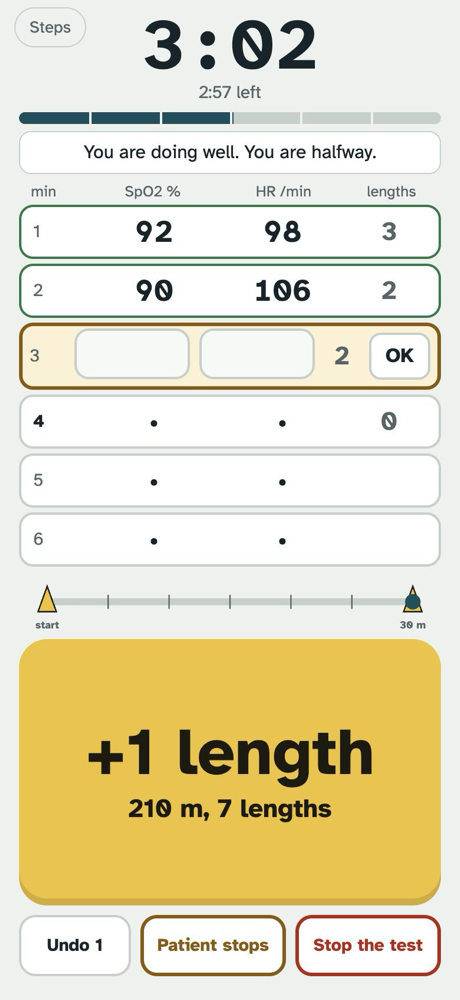
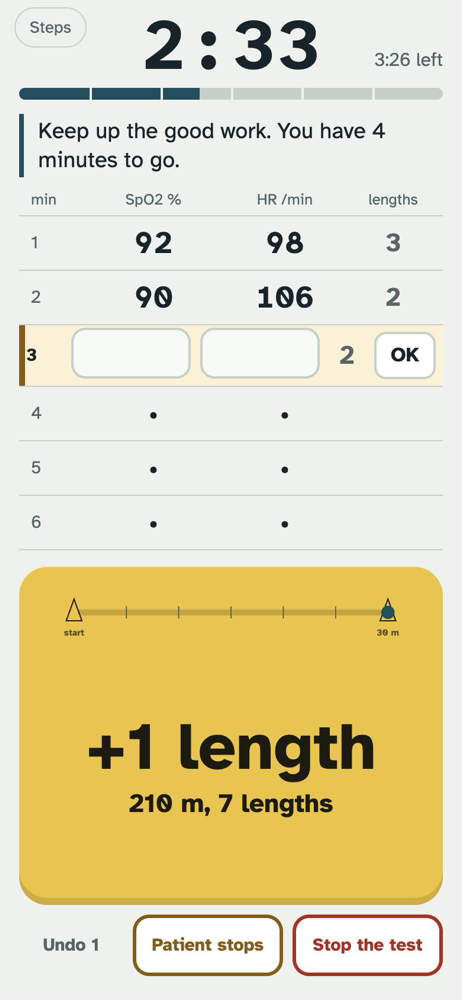
Écran du test redessiné sur iPhone, minuteur de récupération plafonné à 3 min, captures refaites

diff --git a/index.html b/index.html
@@ -690,8 +690,24 @@ h1{font-size:28px;line-height:1.15;margin:20px 0 4px;text-wrap:balance}
   .mrow.on .f .box{padding:0 8px}
   .mrow.on .f input{font-size:30px;padding:3px 0;text-align:center}
   .mok{min-height:40px;border-radius:10px;border:2px solid var(--line);background:var(--surface);font-weight:700}
-  .cols.test:has(.o2run) .mrow{min-height:40px} /* titration : place pour la rangée Oxygène */
   .cols.test .lap{min-height:100px} /* 130 : en titration, la rangée Oxygène poussait les boutons sous la barre d’accueil (iPhone 17 Pro) */
+  /* Refonte du 24 novembre 2026 (go d'Allan) : moins de cadres, un seul signe d'état par minute, couloir dans le bouton d'aller. */
+  .clock{position:relative;display:-webkit-flex;display:flex;-webkit-justify-content:center;justify-content:center;-webkit-align-items:flex-end;align-items:flex-end}
+  .clock .r{position:absolute;right:0;bottom:6px;font-size:16px;margin:0}
+  .cols.test .bar{margin-top:6px}
+  .phrase{background:none;border:0;border-left:4px solid var(--accent);border-radius:0;text-align:left;font-size:19px;line-height:1.3;padding:2px 0 2px 12px;margin:12px 0 10px}
+  .mtab{margin:0 0 10px}
+  .mh{border-bottom:1px solid var(--line);padding-bottom:4px}
+  .mrow{margin:0;border:0;border-bottom:1px solid var(--line);border-radius:0;background:none}
+  .mrow.ok,.mrow.due{border-color:var(--line)}
+  .mrow.due{background:var(--warn-soft);box-shadow:inset 4px 0 0 var(--warn)}
+  .mrow.on{border:0;border-bottom:1px solid var(--line);border-radius:0;background:var(--warn-soft);box-shadow:inset 5px 0 0 var(--warn)}
+  .cols.test .track{position:relative;z-index:2;pointer-events:none;margin:10px 26px -62px;padding-top:12px}
+  .cols.test .track .lane{stroke:rgba(0,0,0,.16)}
+  .cols.test .track text{fill:var(--tape-ink);opacity:.7}
+  .cols.test .lap{padding-top:64px}
+  .cols.test .ctl{grid-template-columns:.9fr 1.3fr 1.3fr}
+  .cols.test .b-undo{border-color:transparent;background:none;color:var(--muted);white-space:nowrap;padding-left:0;padding-right:0}
 }
 @media (prefers-reduced-motion:reduce){*{transition:none!important;animation:none!important}}
 </style></head><body>
@@ -1525,12 +1541,12 @@ function renderTrack() {
 }
 function renderRecup() {
   if (!$('recClk')) return;
-  $('recClk').textContent = mmss(S.recT);
+  $('recClk').textContent = mmss(Math.min(S.recT, 180)); // plafonné à 3 min : un test rouvert le lendemain affichait « 2412:42 »
   $('recLbl').textContent = S.recT < 60 ? LG('Relevé à 1 min dans', 'Reading at 1 min in') : S.recT < 180 ? LG('Relevé à 3 min dans', 'Reading at 3 min in') : LG('Relevés', 'Readings');
   $('recNext').textContent = S.recT < 60 ? mmss(60 - S.recT) : S.recT < 180 ? mmss(180 - S.recT) : LG('terminé', 'done');
   $('rc1').style.borderColor = S.recT >= 60 && !ok(S.rec[1].spo2) ? 'var(--warn)' : '';
   $('rc3').style.borderColor = S.recT >= 180 && !ok(S.rec[3].spo2) ? 'var(--warn)' : '';
-  if ($('rtClk')) $('rtClk').textContent = S.recT < 180 ? $('recLbl').textContent + ' ' + $('recNext').textContent : LG('Récupération ' + mmss(S.recT) + ' : relevés à 1 et 3 min passés', 'Recovery ' + mmss(S.recT) + ': 1- and 3-min readings due');
+  if ($('rtClk')) $('rtClk').textContent = S.recT < 180 ? $('recLbl').textContent + ' ' + $('recNext').textContent : LG('Relevés à 1 et 3 min passés', '1- and 3-min readings due');
 }
 
 /* ---------- Panneaux ---------- */

diff --git a/sw.js b/sw.js
@@ -1,6 +1,6 @@
 // Sans réseau : la page et ses fichiers viennent du cache. Avec réseau : le cache est servi tout de suite
 // et mis à jour en arrière-plan ; la nouvelle version s'affiche au lancement suivant.
-const CACHE = 'tm6-34a91d1e4c';
+const CACHE = 'tm6-58ebf59e88';
 const FILES = ['./', 'index.html', 'manifest.webmanifest', 'manifest-en.webmanifest', 'icon-180.png', 'icon-512.png', 'icon-en-180.png', 'icon-en-512.png',
   'AtkinsonHyperlegible-Regular.ttf', 'AtkinsonHyperlegible-Bold.ttf', 'AtkinsonHyperlegibleMono.ttf'];
 self.addEventListener('install', e => { e.waitUntil(caches.open(CACHE).then(c => c.addAll(FILES))); self.skipWaiting(); });
